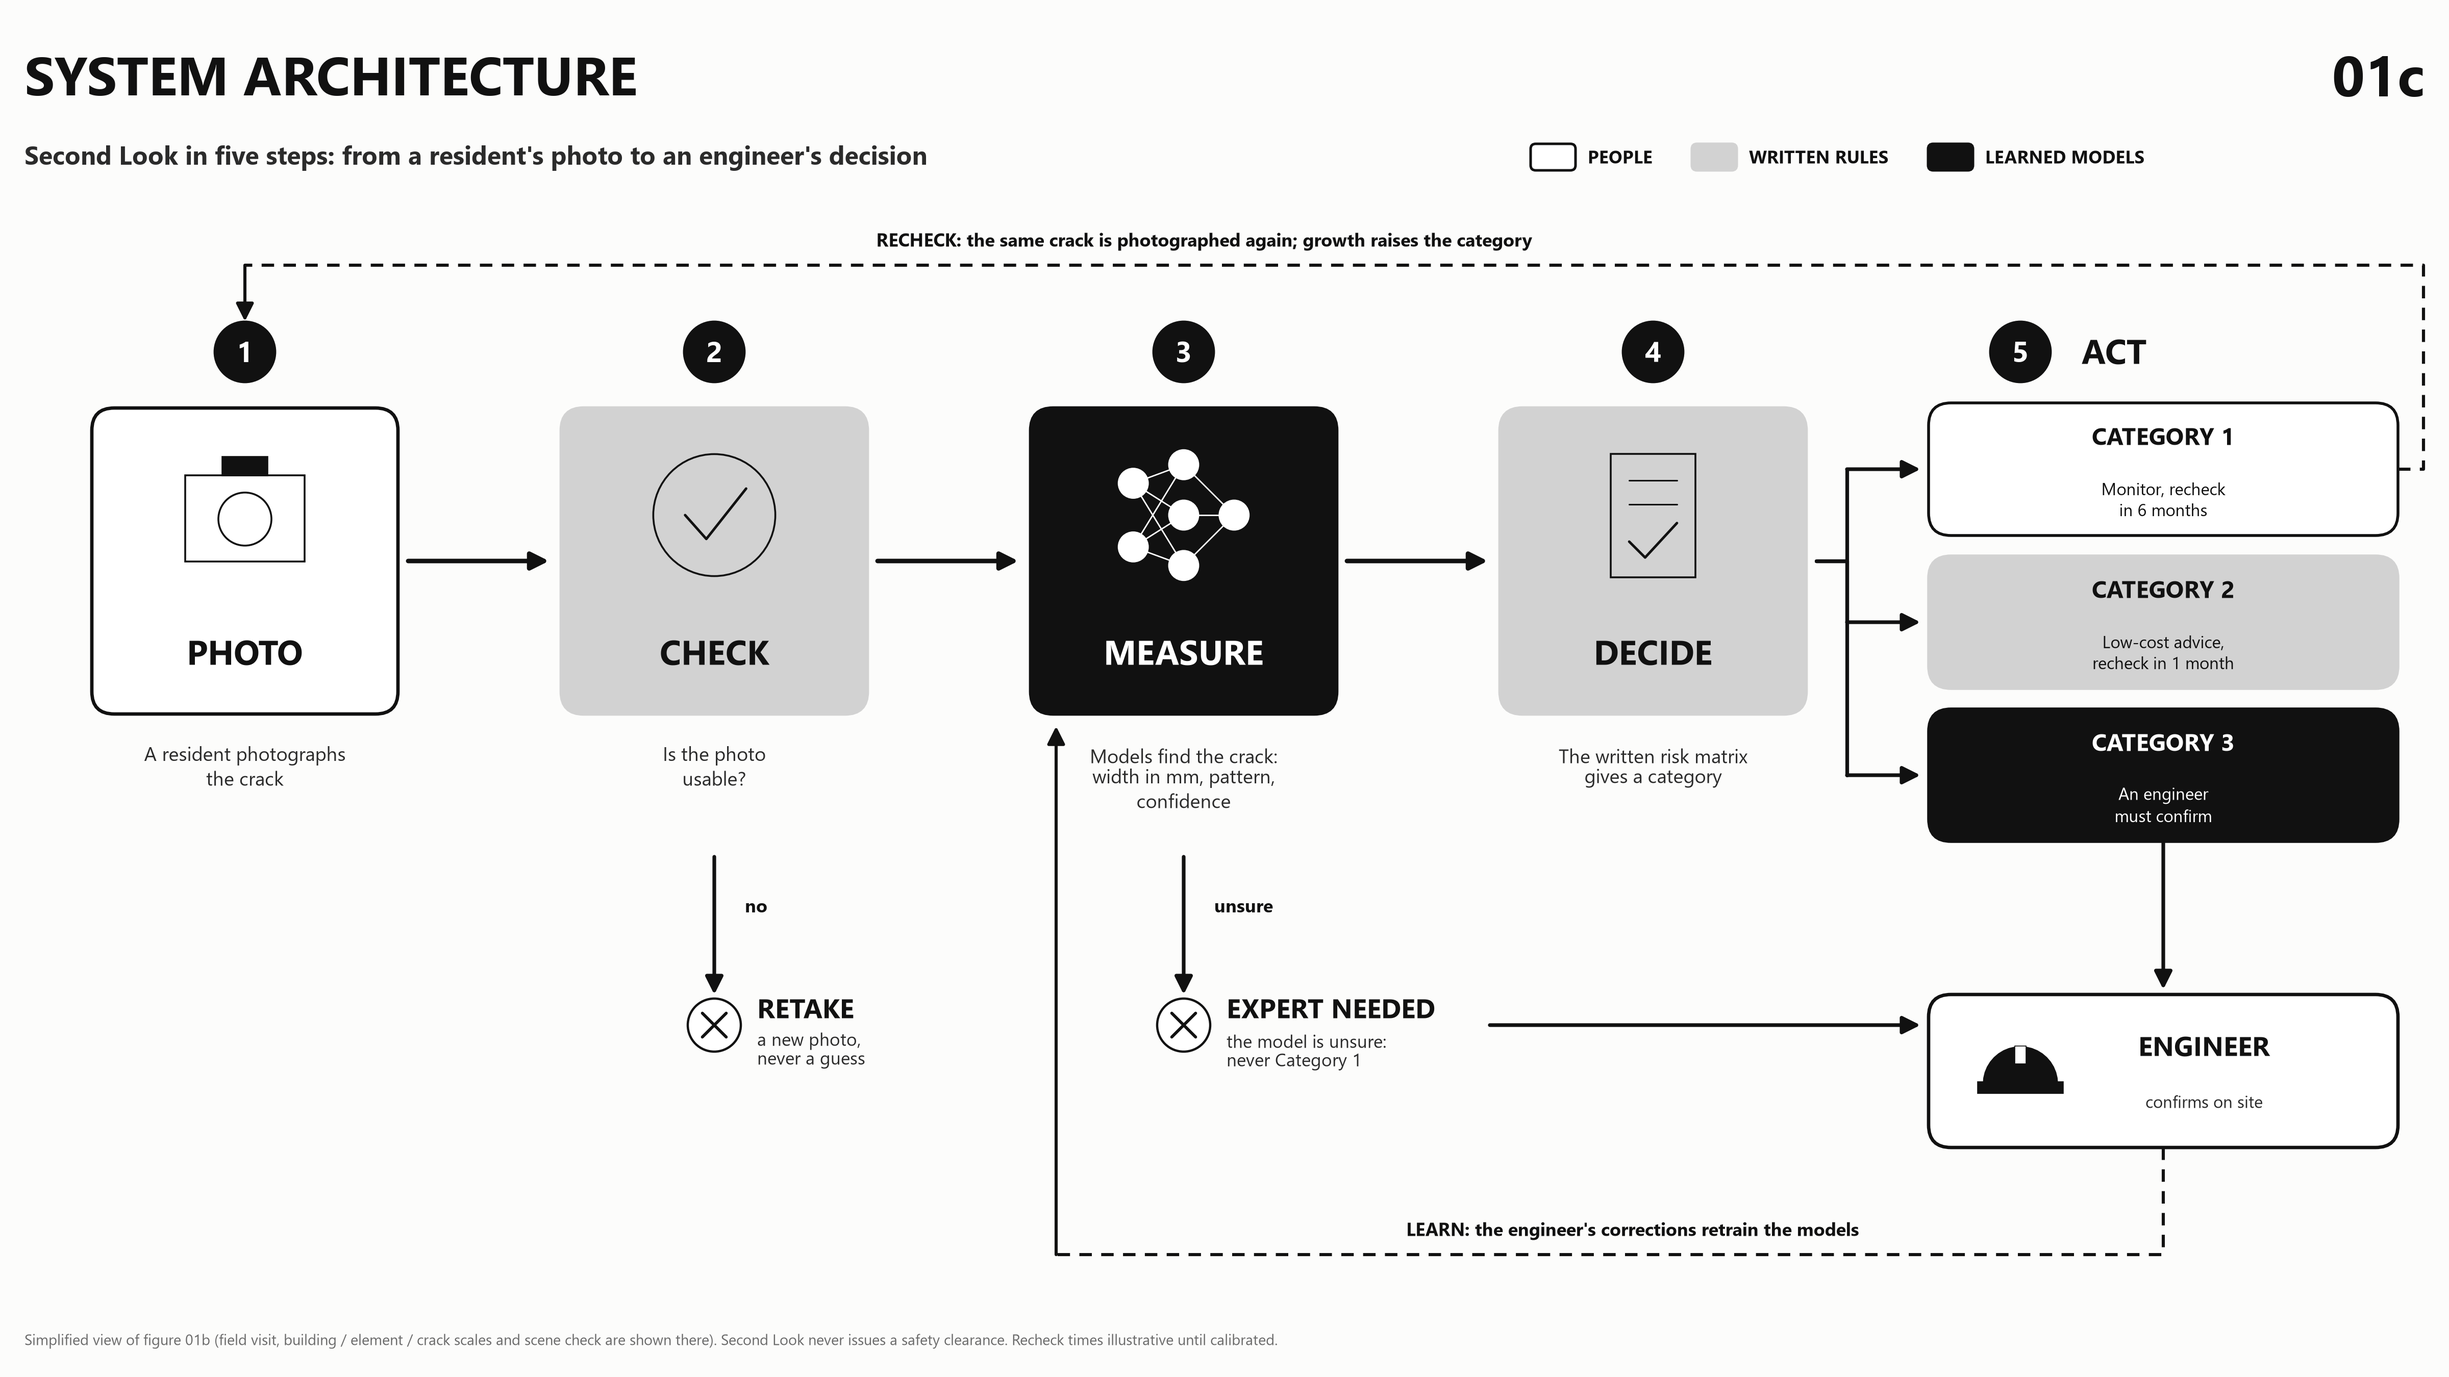
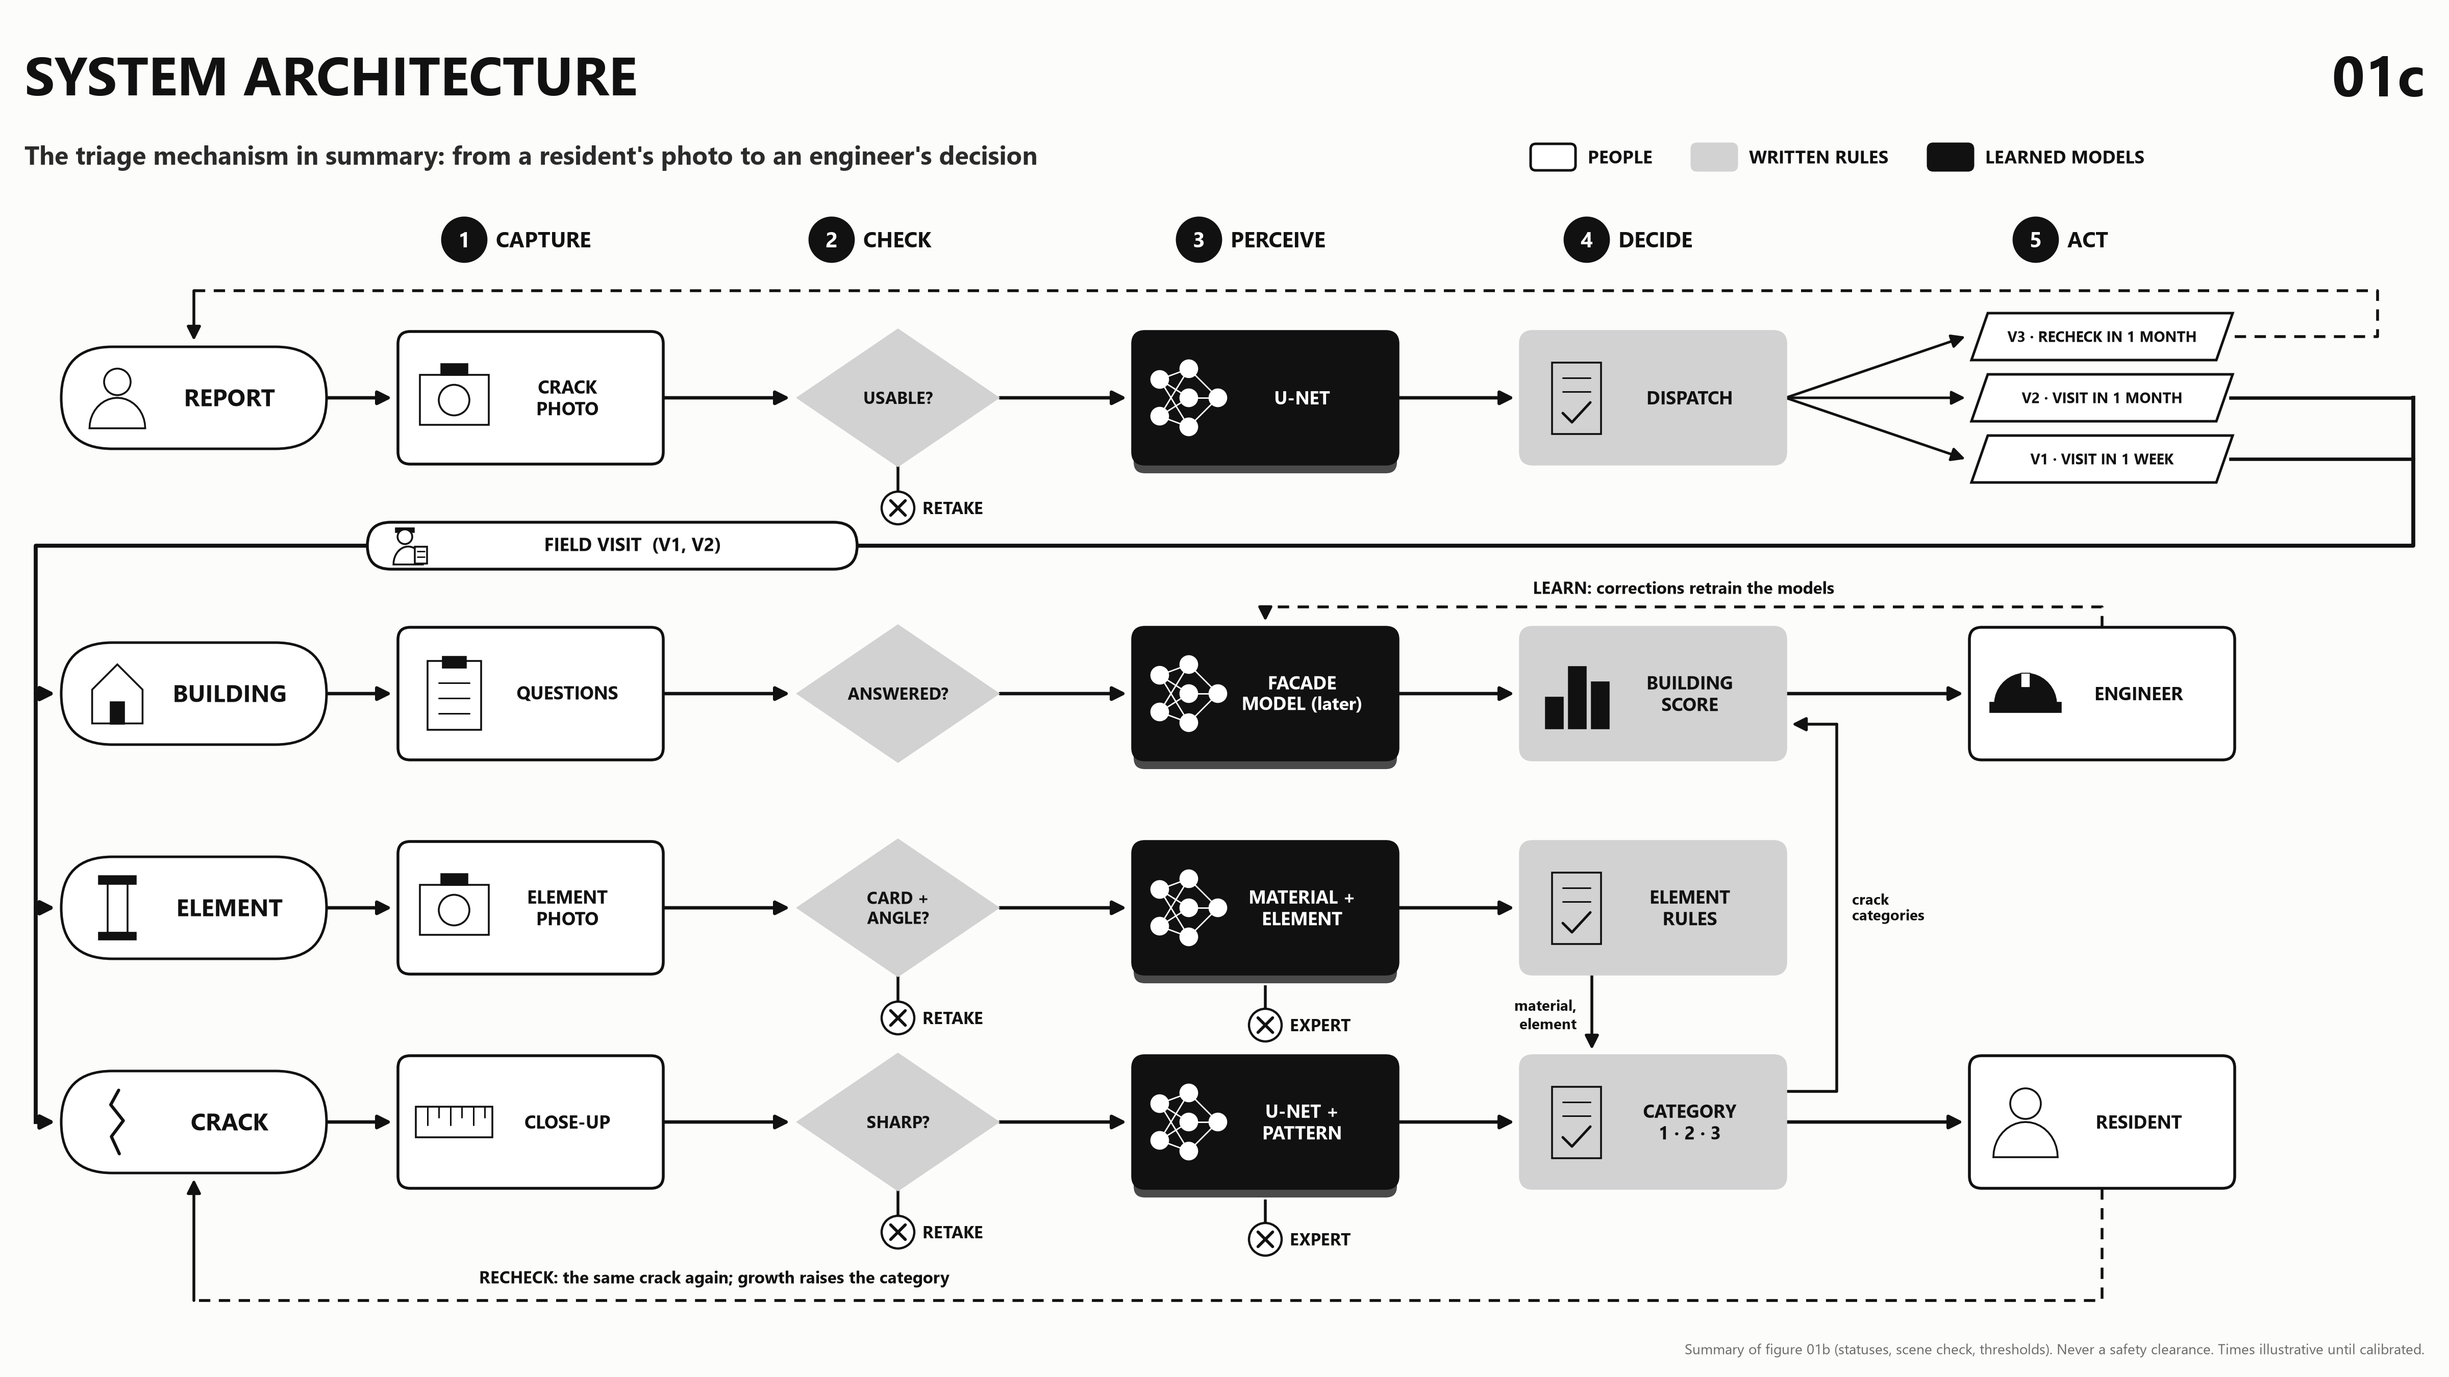
Figure 01c redone as a summary of 01b: same logic, building / element / crack lanes, one symbol and word per box

diff --git a/src/viz/figures.py b/src/viz/figures.py
@@ -1436,50 +1436,68 @@ def pipeline_flow():
     return fig
 
 
-# The story of figure 01b in five steps, for a talk. Same colour logic: white = photos and people,
-# grey = written rules, black = learned models. Details (dispatch, three scales, scene check) stay in 01b.
-SIMPLE_STEPS = [  # (x, kind, icon, word, one line)
-    (24, "photo", "camera", "PHOTO", "A resident photographs\nthe crack"),
-    (70, "rule", "check", "CHECK", "Is the photo\nusable?"),
-    (116, "model", "network", "MEASURE", "Models find the crack:\nwidth in mm, pattern,\nconfidence"),
-    (162, "rule", "rulebook", "DECIDE", "The written risk matrix\ngives a category"),
-]
-SIMPLE_OUTCOMES = [  # (y, category, what happens; fill, edge, ink as in the risk matrix)
-    (89, "CATEGORY 1", "Monitor, recheck\nin 6 months", "white", "#111111", "#111111"),
-    (74, "CATEGORY 2", "Low-cost advice,\nrecheck in 1 month", "#d2d2d2", "#d2d2d2", "#111111"),
-    (59, "CATEGORY 3", "An engineer\nmust confirm", "#111111", "#111111", "white"),
+# Figure 01b as a summary: the same rows (report, building, element, crack), phases, stops and loops, with one
+# symbol and one or two words per box. Same colour logic: white = photos and people, grey = written rules,
+# black = learned models. Statuses, thresholds and the long notes stay in 01b.
+SIMPLE_COLS = {"cap": 52, "chk": 88, "per": 124, "dec": 162, "act": 206}
+SIMPLE_HEADS = [("cap", "1", "CAPTURE"), ("chk", "2", "CHECK"), ("per", "3", "PERCEIVE"), ("dec", "4", "DECIDE"),
+                ("act", "5", "ACT")]
+SIMPLE_ROWS = [  # (y, pill icon, pill word, capture, check (word, stop), model (word, stop), decide, act)
+    (67, "house", "BUILDING", ("clipboard", "QUESTIONS"), ("ANSWERED?", None), ("FACADE\nMODEL (later)", None),
+     ("bars", "BUILDING\nSCORE"), ("hardhat", "ENGINEER")),
+    (46, "column", "ELEMENT", ("camera", "ELEMENT\nPHOTO"), ("CARD +\nANGLE?", "RETAKE"),
+     ("MATERIAL +\nELEMENT", "EXPERT"), ("rulebook", "ELEMENT\nRULES"), None),
+    (25, "crack", "CRACK", ("ruler", "CLOSE-UP"), ("SHARP?", "RETAKE"), ("U-NET +\nPATTERN", "EXPERT"),
+     ("rulebook", "CATEGORY\n1 · 2 · 3"), ("person", "RESIDENT")),
 ]
 
 
 def pipeline_simple():
-    """Figure 01b told in five big steps: photo, check, measure, decide, act; two stops and two loops."""
+    """Figure 01b in summary: report and dispatch, then building, element and crack lanes; stops and loops."""
     fig = plt.figure(figsize=(24, 13.5), facecolor="white")
     ax = fig.add_axes([0, 0, 1, 1])  # units of 0.1 inch
     ax.set_xlim(0, 240)
     ax.set_ylim(0, 135)
     ax.set_axis_off()
     t = _flow_tools(ax)
-    K, GREY = FLOW_INK, FLOW_RULE
+    K, GREY, C = FLOW_INK, FLOW_RULE, SIMPLE_COLS
+    w, h = 26, 13
 
-    def card(cx, cy, w, h, fill, edge, lw=2.4):
-        ax.add_patch(FancyBboxPatch((cx - w / 2, cy - h / 2), w, h, boxstyle="round,pad=0,rounding_size=2.2",
-                                    facecolor=fill, edgecolor=edge, lw=lw, zorder=4))
-
-    def arrow(points, ls="-", lw=3.2):
+    def arrow(points, ls="-", lw=2.4):
         xs, ys = zip(*points)
         ax.plot(xs[:-1], ys[:-1], color=K, lw=lw, ls=ls, zorder=2, solid_capstyle="round")
         ax.annotate("", xy=points[-1], xytext=points[-2], zorder=2,
                     arrowprops=dict(arrowstyle="-|>", color=K, lw=lw, ls="-", shrinkA=0, shrinkB=0,
-                                    mutation_scale=26))
+                                    mutation_scale=20))
 
-    def stop(cx, cy, word, sub):
-        t.mark(cx, cy, False, r=2.6)
-        t.label(cx + 4.2, cy + 1.6, word, size=19, weight="bold", ha="left")
-        t.label(cx + 4.2, cy - 2.6, sub, size=12.5, colour=FLOW_TEXT, ha="left")
+    def card(cx, cy, kind, icon, word):
+        fill, edge, ink = {"photo": ("white", K, K), "rule": (GREY, GREY, K), "model": (K, K, "white")}[kind]
+        if kind == "model":  # stacked, as in 01b
+            ax.add_patch(FancyBboxPatch((cx - w / 2, cy - h / 2 - 1.0), w, h, boxstyle="round,pad=0,rounding_size=1.2",
+                                        facecolor="#4a4a4a", edgecolor="white", lw=1.4, zorder=3))
+        ax.add_patch(FancyBboxPatch((cx - w / 2, cy - h / 2), w, h, boxstyle="round,pad=0,rounding_size=1.2",
+                                    facecolor=fill, edgecolor=edge, lw=2.0, zorder=4))
+        _handoff_icon(ax, icon, cx - w / 2 + 5.5, cy, s=7.5, ink=ink, paper=fill)
+        t.label(cx + 3.6, cy, word, size=13, colour=ink, weight="bold")
+
+    def check(cx, cy, word):
+        ax.add_patch(matplotlib.patches.Polygon([(cx - 10, cy), (cx, cy + 6.8), (cx + 10, cy), (cx, cy - 6.8)],
+                                                closed=True, facecolor=GREY, edgecolor="none", zorder=4))
+        t.label(cx, cy, word, size=12, weight="bold")
+
+    def stop(cx, top, word):
+        ax.plot([cx, cx], [top, top - 2.4], color=K, lw=2.0, zorder=2)
+        t.mark(cx, top - 4.0, False, r=1.6)
+        t.label(cx + 2.4, top - 4.0, word, size=12, weight="bold", ha="left")
+
+    def start(cy, icon, word):
+        t.pill(19, cy, 26, 10, "")
+        _handoff_icon(ax, icon, 11.5, cy, s=6.5)
+        t.label(22.5, cy, word, size=17, weight="bold")
 
     t.label(2.4, 127.5, "SYSTEM ARCHITECTURE", size=38, weight="bold", ha="left")
     t.label(237.6, 127.5, "01c", size=40, weight="bold", ha="right")
-    t.label(2.4, 119.5, "Second Look in five steps: from a resident's photo to an engineer's decision", size=18,
+    t.label(2.4, 119.5, "The triage mechanism in summary: from a resident's photo to an engineer's decision", size=18,
             colour=FLOW_TEXT, weight="bold", ha="left")
     kx = 150
     for fill, edge, name in (("white", K, "PEOPLE"), (GREY, GREY, "WRITTEN RULES"), (K, K, "LEARNED MODELS")):
@@ -1487,59 +1505,74 @@ def pipeline_simple():
                                     edgecolor=edge, lw=1.8, zorder=4))
         t.label(kx + 5.6, 119.6, name, size=12.5, weight="bold", ha="left")
         kx += 9.5 + 1.05 * len(name)
+    for key, num, word in SIMPLE_HEADS:
+        ax.add_patch(plt.Circle((C[key] - 6.5, 111.5), 2.2, color=K, zorder=4))
+        t.label(C[key] - 6.5, 111.5, num, size=15, colour="white", weight="bold")
+        t.label(C[key] - 3.4, 111.5, word, size=15, weight="bold", ha="left")
 
-    # the four steps up to the category
-    cy, w, h = 80, 30, 30
-    styles = {"photo": ("white", K, K), "rule": (GREY, GREY, K), "model": (K, K, "white")}
-    for k, (cx, kind, icon, word, line_) in enumerate(SIMPLE_STEPS):
-        fill, edge, ink = styles[kind]
-        ax.add_patch(plt.Circle((cx, cy + h / 2 + 5.5), 3.0, color=K, zorder=4))
-        t.label(cx, cy + h / 2 + 5.5, str(k + 1), size=20, colour="white", weight="bold")
-        card(cx, cy, w, h, fill, edge)
-        _handoff_icon(ax, icon, cx, cy + 4.5, s=13, ink=ink, paper=fill)
-        t.label(cx, cy - 9.0, word, size=24, colour=ink, weight="bold")
-        t.label(cx, cy - h / 2 - 3.0, line_, size=13.5, colour=FLOW_TEXT, va="top")
-        if k:
-            arrow([(SIMPLE_STEPS[k - 1][0] + w / 2 + 1, cy), (cx - w / 2 - 1.2, cy)])
+    # row 0: the resident reports a crack; a written rule decides if and when a field worker visits (D27)
+    ry = 96
+    start(ry, "person", "REPORT")
+    card(C["cap"], ry, "photo", "camera", "CRACK\nPHOTO")
+    check(C["chk"], ry, "USABLE?")
+    stop(C["chk"], ry - 6.8, "RETAKE")
+    card(C["per"], ry, "model", "network", "U-NET")
+    card(C["dec"], ry, "rule", "rulebook", "DISPATCH")
+    for x0, x1 in (("pill", "cap"), ("cap", "chk"), ("chk", "per"), ("per", "dec")):
+        a = 32 if x0 == "pill" else C[x0] + (10 if x0 == "chk" else w / 2)
+        b = C[x1] - (10 if x1 == "chk" else w / 2)
+        arrow([(a, ry), (b - 0.6, ry)])
+    visits = [(ry + 6, "V3 · RECHECK IN 1 MONTH"), (ry, "V2 · VISIT IN 1 MONTH"), (ry - 6, "V1 · VISIT IN 1 WEEK")]
+    for vy, text_ in visits:
+        t.para(C["act"], vy, 24, 4.6, text_, size=10.5)
+        arrow([(C["dec"] + w / 2, ry), (C["act"] - 13.4, vy)], lw=1.8)
+    # V3: the resident's recheck is a new report
+    arrow([(C["act"] + 13, ry + 6), (233, ry + 6), (233, 106.5), (19, 106.5), (19, ry + 5.6)], ls=(0, (4, 3)), lw=2.0)
+    # V1 and V2: a field worker visits and photographs the building, every cracked element and every crack
+    for vy in (ry, ry - 6):
+        ax.plot([C["act"] + 12.6, 236.5], [vy, vy], color=K, lw=2.4, zorder=2)
+    ax.plot([236.5, 236.5, 3.5, 3.5], [ry, 81.5, 81.5, 25], color=K, lw=2.8, zorder=2, solid_joinstyle="round")
+    for y, *_ in SIMPLE_ROWS:
+        arrow([(3.5, y), (5.4, y)], lw=2.8)
+    ax.add_patch(FancyBboxPatch((36, 79.2), 48, 4.6, boxstyle="round,pad=0,rounding_size=2.3", facecolor="white",
+                                edgecolor=K, lw=2.0, zorder=5))
+    _handoff_icon(ax, "worker", 40, 81.5, s=4.0)
+    t.label(62, 81.5, "FIELD VISIT  (V1, V2)", size=13, weight="bold")
 
-    # step 5: act on the category
-    ax.add_patch(plt.Circle((198, cy + h / 2 + 5.5), 3.0, color=K, zorder=4))
-    t.label(198, cy + h / 2 + 5.5, "5", size=20, colour="white", weight="bold")
-    t.label(204, cy + h / 2 + 5.5, "ACT", size=24, weight="bold", ha="left")
-    for oy, cat, what, fill, edge, ink in SIMPLE_OUTCOMES:
-        card(212, oy, 46, 13, fill, edge, lw=2.0)
-        t.label(212, oy + 3.2, cat, size=17, colour=ink, weight="bold")
-        t.label(212, oy - 3.0, what, size=12, colour=ink)
-        arrow([(162 + w / 2 + 1, cy), (181, cy), (181, oy), (188.2, oy)], lw=2.6)
+    # rows 1-3: building, element, crack
+    for y, icon, word, cap, chk, per, dec, act in SIMPLE_ROWS:
+        start(y, icon, word)
+        card(C["cap"], y, "photo", *cap)
+        check(C["chk"], y, chk[0])
+        if chk[1]:
+            stop(C["chk"], y - 6.8, chk[1])
+        card(C["per"], y, "model", "network", per[0])
+        if per[1]:
+            stop(C["per"], y - 7.5, per[1])
+        card(C["dec"], y, "rule", *dec)
+        arrow([(32, y), (C["cap"] - w / 2 - 0.6, y)])
+        arrow([(C["cap"] + w / 2, y), (C["chk"] - 10.6, y)])
+        arrow([(C["chk"] + 10, y), (C["per"] - w / 2 - 0.6, y)])
+        arrow([(C["per"] + w / 2, y), (C["dec"] - w / 2 - 0.6, y)])
+        if act:
+            card(C["act"], y, "photo", *act)
+            arrow([(C["dec"] + w / 2, y), (C["act"] - w / 2 - 0.6, y)])
+    yB, yE, yC = (row[0] for row in SIMPLE_ROWS)
+    # between the lanes: material and element feed the crack category; crack categories feed the building score
+    arrow([(C["dec"] - 6, yE - h / 2), (C["dec"] - 6, yC + h / 2 + 0.6)], lw=2.0)
+    t.label(C["dec"] - 7.5, (yE + yC) / 2, "material,\nelement", size=10.5, weight="bold", ha="right")
+    arrow([(C["dec"] + w / 2, yC + 3), (180, yC + 3), (180, yB - 3), (C["dec"] + w / 2 + 0.6, yB - 3)], lw=2.0)
+    t.label(181.5, yE, "crack\ncategories", size=10.5, weight="bold", ha="left")
 
-    # the two stops: any doubt goes to a person
-    x_check, x_model = SIMPLE_STEPS[1][0], SIMPLE_STEPS[2][0]
-    arrow([(x_check, 51), (x_check, 37.5)], lw=2.6)
-    stop(x_check, 34.5, "RETAKE", "a new photo,\nnever a guess")
-    arrow([(x_model, 51), (x_model, 37.5)], lw=2.6)
-    stop(x_model, 34.5, "EXPERT NEEDED", "the model is unsure:\nnever Category 1")
-    t.label(x_check + 3, 46, "no", size=13, weight="bold", ha="left")
-    t.label(x_model + 3, 46, "unsure", size=13, weight="bold", ha="left")
+    # loops: learning (engineer -> models) and monitoring (resident -> the same crack again)
+    arrow([(C["act"], yB + h / 2), (C["act"], 75.5), (C["per"], 75.5), (C["per"], yB + h / 2 + 0.6)],
+          ls=(0, (4, 3)), lw=2.0)
+    t.label(165, 77.4, "LEARN: corrections retrain the models", size=12, weight="bold")
+    arrow([(C["act"], yC - h / 2), (C["act"], 7.5), (19, 7.5), (19, yC - 5.6)], ls=(0, (4, 3)), lw=2.0)
+    t.label(70, 9.6, "RECHECK: the same crack again; growth raises the category", size=12, weight="bold")
 
-    # the engineer: confirms every Category 3 and every referral
-    ex, ey = 212, 30
-    card(ex, ey, 46, 15, "white", K)
-    _handoff_icon(ax, "hardhat", ex - 14, ey, s=9)
-    t.label(ex + 4, ey + 2.4, "ENGINEER", size=19, weight="bold")
-    t.label(ex + 4, ey - 3.0, "confirms on site", size=12, colour=FLOW_TEXT)
-    arrow([(212, 52.5), (212, 38.0)], lw=2.6)
-    arrow([(146, 34.5), (188.2, 34.5)], lw=2.6)
-
-    # loops: recheck (people) and learning (models)
-    arrow([(235, 89), (237.5, 89), (237.5, 109), (24, 109), (24, cy + h / 2 + 8.5)], ls=(0, (4, 3)), lw=2.2)
-    t.label(118, 111.3, "RECHECK: the same crack is photographed again; growth raises the category", size=13,
-            weight="bold")
-    arrow([(ex, 22.5), (ex, 12), (x_model - 12.5, 12), (x_model - 12.5, cy - h / 2 - 1.2)], ls=(0, (4, 3)), lw=2.2)
-    t.label(160, 14.3, "LEARN: the engineer's corrections retrain the models", size=13, weight="bold")
-
-    t.label(2.4, 3.5, "Simplified view of figure 01b (field visit, building / element / crack scales and scene check "
-            "are shown there). Second Look never issues a safety clearance. Recheck times illustrative until "
-            "calibrated.", size=10.5, colour=FLOW_SOFT, ha="left")
+    t.label(237.6, 2.6, "Summary of figure 01b (statuses, scene check, thresholds). Never a safety clearance. "
+            "Times illustrative until calibrated.", size=10, colour=FLOW_SOFT, ha="right")
     return fig
 
 

diff --git a/figures/README.md b/figures/README.md
@@ -5,7 +5,7 @@ Generated by `py src/viz/figures.py` (spec: `spec/features/figures.md`). Do not 
 | | |
 |---|---|
 | ![Pipeline](01_pipeline.png) | ![Pipeline as a task flow](01b_pipeline_flow.png) |
-| ![System architecture in five steps](01c_pipeline_simple.png) | ![Decisions and players](02_decisions_and_players.png) |
+| ![System architecture in summary](01c_pipeline_simple.png) | ![Decisions and players](02_decisions_and_players.png) |
 | ![Risk matrix](03_risk_matrix.png) | ![Segmentation tree](04_segmentation_tree.png) |
 | ![Data coverage](05_data_coverage.png) | ![Dataset sizes](06_dataset_sizes.png) |
 | ![Confusion template](07_confusion_template.png) | ![Real-data quality gate](08_real_data_quality_gate.png) |
